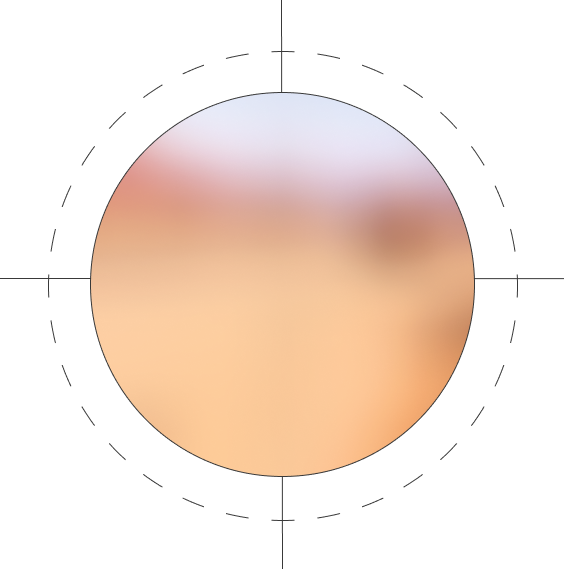
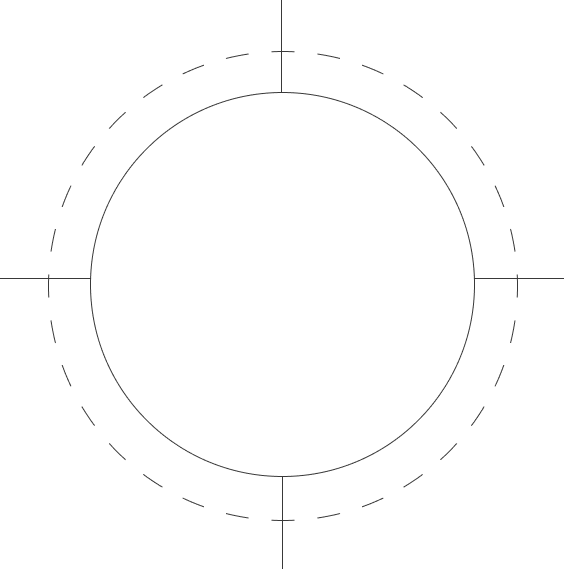
Add animation for hero

diff --git a/src/scss/hero.scss b/src/scss/hero.scss
@@ -1,28 +1,34 @@
-.hero {
+.hero-wrapper {
+    width: 320px;
     margin: 0 auto;
-    background-image: url(/img/hero/ellipse.png), url(/img/hero/background.png);
-    background-repeat: no-repeat;
-    background-position: -6% 140%, 2% 99%;
-    background-size: 216px, 320px 220px;
-    padding: 54px 20px 48px;
     position: relative;
-    @include media(retina-mobile) {
-        background-image: url(/img/hero/ellipse@2x.png),
-            url(/img/hero/background@2x.png);
-    }
     @include media(desktop) {
-        background-image: url(/img/hero/ellipse-desktop.png),
-            url(/img/hero/background-desktop.png);
-        background-position: 0% 40%, 50% 100%;
-        background-size: 565px 570px, 1200px 780px;
-        padding: 266px 112px 288px;
-    }
-    @include media(retina-desktop) {
-        background-image: url(/img/hero/ellipse-desktop@2x.png),
-            url(/img/hero/background-desktop@2x.png);
+        width: 1200px;
     }
 }
-.hero::after {
+.hero {
+    margin: 0 auto;
+    overflow: hidden;
+    background-image: url(/img/hero/background.png);
+    background-repeat: no-repeat;
+    background-position: 50% 100%;
+    background-size: 320px 220px;
+    padding: 57px 20px 48px;
+    position: relative;
+    @include media(retina-mobile) {
+        background-image: url(/img/hero/background@2x.png);
+    }
+    @include media(desktop) {
+        background-image: url(/img/hero/background-desktop.png);
+        background-position: 50% 0%;
+        background-size: 1200px 780px;
+        padding: 282px 112px 288px;
+    }
+    @include media(retina-desktop) {
+        background-image: url(/img/hero/background-desktop@2x.png);
+    }
+}
+.hero-arrow {
     content: '';
     position: absolute;
     background-image: url(/img/hero/arrow.png);
@@ -32,6 +38,7 @@
     height: 44px;
     bottom: -22px;
     left: 138px;
+    z-index: 1;
     @include media(retina-mobile) {
         background-image: url(/img/hero/arrow@2x.png);
     }
@@ -50,12 +57,57 @@
     padding: 0;
 }
 .hero-wrap {
-    display: flex;
-    flex-direction: column;
-    align-items: center;
     width: 165px;
+    position: relative;
+    z-index: 1;
     @include media(desktop) {
         width: 340px;
+    }
+}
+.hero-ellipse {
+    content: '';
+    position: absolute;
+    background-image: url(/img/hero/ellipse.png);
+    background-repeat: no-repeat;
+    background-size: 100%;
+    background-position: 0% 100%;
+    width: 212px;
+    height: 212px;
+    z-index: -1;
+    left: -20px;
+    top: -49px;
+
+    @include media(retina-mobile) {
+        background-image: url(/img/hero/ellipse@2x.png);
+    }
+    @include media(desktop) {
+        background-image: url(/img/hero/ellipse-desktop.png);
+        background-size: 100%;
+        background-position: 50% 50%;
+        width: 564px;
+        height: 569px;
+        top: 0%;
+        left: 60%;
+        /*top: -180px;
+        left: -110px;*/
+        transform: translateY(-200%);
+    }
+    @include media(retina-desktop) {
+        background-image: url(/img/hero/ellipse-desktop@2x.png);
+    }
+}
+.hero-blur-circle {
+    @include media(desktop) {
+        content: '';
+        position: absolute;
+        top: 18%;
+        left: 57%;
+        width: 383px;
+        height: 383px;
+        border-radius: 50%;
+        backdrop-filter: blur(20px);
+        z-index: -1;
+        transform: translateY(-200%);
     }
 }
 .hero-title {
@@ -71,6 +123,24 @@
         text-transform: none;
     }
 }
+.animated-container {
+    display: flex;
+    flex-direction: column;
+    align-items: center;
+    @include media(desktop) {
+        transform: translateY(500%);
+    }
+}
+
+@keyframes moveTitle {
+    0% {
+        transform: translateY(500%);
+    }
+    100% {
+        transform: translateY(0);
+    }
+}
+
 .hero-title-span::after {
     @include media(desktop) {
         content: '\A';
@@ -133,4 +203,80 @@
 }
 .hero-button:active::after {
     background-color: #f4eb74;
+}
+
+.cookies-hidden-hero-blur {
+    @include media(desktop) {
+        animation: moveSightBlur 5s ease-in-out forwards;
+    }
+}
+.cookies-hidden-hero {
+    @include media(desktop) {
+        animation: moveSight 5s ease-in-out forwards;
+    }
+}
+.cookies-hidden-hero-title {
+    @include media(desktop) {
+        animation: moveTitle 0.5s ease-in-out forwards;
+        animation-delay: 4.8s;
+    }
+}
+
+@keyframes moveSightBlur {
+    0% {
+        transform: translate(26%, -166%);
+        animation-delay: 1s;
+    }
+    20% {
+        transform: translate(26%, -30%);
+        animation-delay: 0.5s;
+    }
+    35% {
+        transform: translate(122%, -30%);
+        animation-delay: 0.5s;
+    }
+    50% {
+        transform: translate(122%, -75%);
+        animation-delay: 0.5s;
+    }
+    65% {
+        transform: translate(122%, 7%);
+        animation-delay: 0.5s;
+    }
+    80% {
+        transform: translate(122%, -30%);
+        animation-delay: 0.5s;
+    }
+    100% {
+        transform: translate(-56%, -30%);
+    }
+}
+@keyframes moveSight {
+    0% {
+        transform: translate(0, -120%);
+        animation-delay: 1s;
+    }
+    20% {
+        transform: translate(0, -30%);
+        animation-delay: 0.5s;
+    }
+    35% {
+        transform: translate(65%, -30%);
+        animation-delay: 0.5s;
+    }
+    50% {
+        transform: translate(65%, -60%);
+        animation-delay: 0.5s;
+    }
+    65% {
+        transform: translate(65%, -5%);
+        animation-delay: 0.5s;
+    }
+    80% {
+        transform: translate(65%, -30%);
+        animation-delay: 0.5s;
+    }
+    100% {
+        transform: translate(-56%, -30%);
+    }
 }

diff --git a/src/partials/hero.html b/src/partials/hero.html
@@ -1,16 +1,25 @@
-<section class="section hero">
-    <div class="container hero-container">
-        <div class="hero-wrap">
-            <h1 class="hero-title">
-                <span class="hero-title-span">Enter</span> the Combat Arena Now!
-            </h1>
-            <a
-                class="hero-button"
-                target="_blank"
-                href="https://play.google.com/store/apps/details?id=carts.battle.twisted&hl=en&gl=us"
-            >
-                Download & Race
-            </a>
+<div class="hero-wrapper">
+    <section class="section hero">
+        <div class="container hero-container">
+            <div class="hero-wrap">
+                <div class="hero-ellipse"></div>
+                <div class="hero-blur-circle"></div>
+
+                <div class="animated-container">
+                    <h1 class="hero-title">
+                        <span class="hero-title-span">Enter</span> the Combat
+                        Arena Now!
+                    </h1>
+                    <a
+                        class="hero-button animated-button"
+                        target="_blank"
+                        href="https://play.google.com/store/apps/details?id=carts.battle.twisted&hl=en&gl=us"
+                    >
+                        Download & Race
+                    </a>
+                </div>
+            </div>
         </div>
-    </div>
-</section>
+    </section>
+    <div class="hero-arrow"></div>
+</div>

diff --git a/src/js/cookies.js b/src/js/cookies.js
@@ -6,15 +6,36 @@ const cookies = document.querySelector('[data-cookies]');
 const body = document.body;
 const cookiesDecision = localStorage.getItem('cookiesConsent');
 
+const heroBlur = document.querySelector('.hero-blur-circle');
+const heroEllipse = document.querySelector('.hero-ellipse');
+const heroTitle = document.querySelector('.animated-container ');
+const header = document.querySelector('.header');
+
 if (!cookiesDecision) {
     cookies.classList.add('show');
     body.classList.add('no-scroll');
+} else if (cookiesDecision === 'accepted' || choice === 'declined') {
+    animateHeroElements();
 }
 
-const cookiesChoice = choice => {
+function cookiesChoice(choice) {
     localStorage.setItem('cookiesConsent', choice);
-    cookies.classList.remove('show');
     body.classList.remove('no-scroll');
-};
+
+    if (choice === 'accepted' || choice === 'declined') {
+        animateHeroElements();
+    }
+    cookies.classList.remove('show');
+}
+
+function animateHeroElements() {
+    setTimeout(() => {
+        heroBlur?.classList.add('cookies-hidden-hero-blur');
+        heroEllipse?.classList.add('cookies-hidden-hero');
+        heroTitle?.classList.add('cookies-hidden-hero-title');
+        header?.classList.add('cookies-hidden-header');
+    }, 500);
+}
+
 cookiesBtnAccept.addEventListener('click', () => cookiesChoice('accepted'));
 cookiesBtnDecline.addEventListener('click', () => cookiesChoice('declined'));

diff --git a/src/scss/terms.scss b/src/scss/terms.scss
@@ -1,3 +1,9 @@
+.terms-section {
+    padding: 22px 16px 0;
+    @include media(desktop) {
+        padding: 40px 40px 0;
+    }
+}
 .back-link {
     font-family: 'Open Sans', sans-serif;
     font-weight: 600;
@@ -8,6 +14,10 @@
     align-items: center;
     gap: 11px;
     margin-bottom: 16px;
+}
+.back-icon {
+    width: 7px;
+    height: 13px;
 }
 .back-link:hover,
 .back-link:focus,
@@ -22,10 +32,9 @@
     fill: #da8c00;
 }
 .terms-title {
-    margin-bottom: 0;
+    margin-bottom: 24px;
     text-align: left;
     @include media(desktop) {
-        margin-bottom: 26px;
         margin-top: 16px;
     }
 }
@@ -76,6 +85,9 @@
     @include media(desktop) {
         font-size: 20px;
     }
+}
+.privacy-text:last-child {
+    margin-bottom: 0;
 }
 .privacy-text-list {
     font-family: 'Open Sans', sans-serif;

diff --git a/src/scss/header.scss b/src/scss/header.scss
@@ -13,12 +13,18 @@
     max-width: 288px;
     height: 32px;
     @include media(desktop) {
+        transform: translateY(-200%);
         border-radius: 32px;
         padding: 16px;
         max-width: 1120px;
         height: 92px;
     }
 }
+.cookies-hidden-header {
+    animation: moveHeader 1s ease-in-out forwards;
+    animation-delay: 4.7s;
+}
+
 .header-container {
     display: flex;
     align-items: center;
@@ -140,4 +146,13 @@
 }
 .mobile-menu-nav-item:active {
     color: #eaa62c;
+}
+
+@keyframes moveHeader {
+    0% {
+        transform: translateY(-200%);
+    }
+    100% {
+        transform: translateY(0);
+    }
 }

diff --git a/src/scss/game-description.scss b/src/scss/game-description.scss
@@ -14,7 +14,7 @@
         background-image: url(/img/game-description/texture-desktop.png);
         background-repeat: no-repeat;
         background-size: 1200px 342px;
-        background-position: 50% 52%;
+        background-position: 50% 54%;
     }
     @include media(retina-desktop) {
         background-image: url(/img/game-description/texture-desktop@2x.png);
